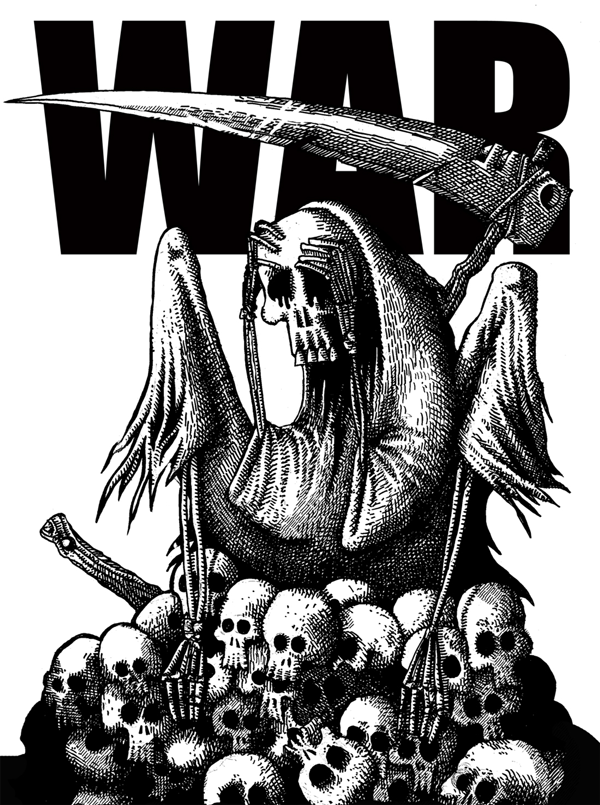
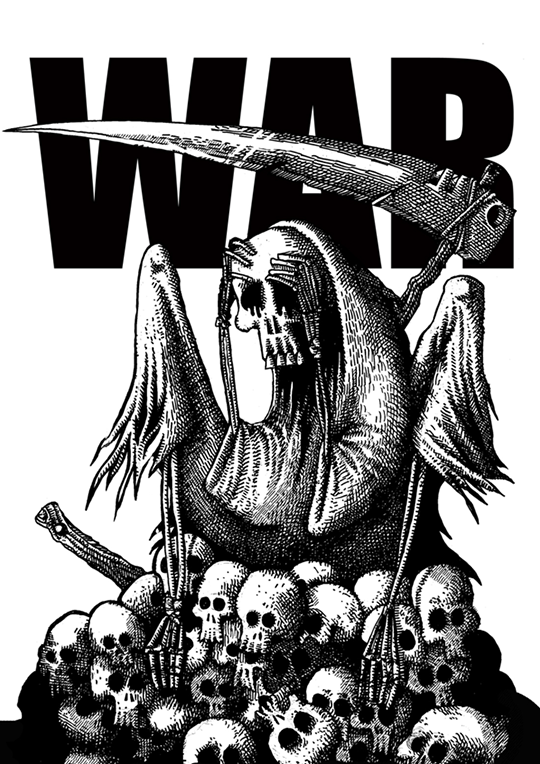
img gallery

diff --git a/index.html b/index.html
@@ -6,103 +6,150 @@
     <meta http-equiv="X-UA-Compatible" content="IE=edge">
     <meta name="viewport" content="width=device-width, initial-scale=1">
 
-    <title>Bootstrap Gallery</title>
+    <title>Graphisme - Illustrations</title>
 
     <link rel="stylesheet" href="https://maxcdn.bootstrapcdn.com/bootstrap/3.3.7/css/bootstrap.min.css">
     <link href="https://fonts.googleapis.com/css?family=Droid+Sans:400,700" rel="stylesheet">
     <link rel="stylesheet" href="https://cdnjs.cloudflare.com/ajax/libs/baguettebox.js/1.8.1/baguetteBox.min.css">
-    <link rel="stylesheet" href="thumbnail-gallery.css">
+    <link rel="stylesheet" href="style.css">
 
 </head>
 <body>
 
-<div class="container gallery-container">
+    <div class="container gallery-container">
 
-    <h1>Illustrations</h1>
+        <h1>Graphisme - Illustrations</h1>
 
-    <p class="page-description text-center">Thumbnails With Title And Description</p>
-    
-    <div class="tz-gallery">
+        <p class="page-description text-center"></p>
 
-        <div class="row">
+        <div class="tz-gallery">
 
-            <div class="col-sm-6 col-md-4">
-                <div class="thumbnail">
-                    <a class="lightbox" href="img/cat.png">
-                        <img src="img/cat.png" alt="cat">
-                    </a>
-                    <div class="caption">
-                        <h3>Strange cat</h3>
-                        <p>Outils: Dessin + Illustrator + photoshop</p>
+            <div class="row">
+
+                <div class="col-sm-6 col-md-4">
+                    <div class="thumbnail">
+                        <a class="lightbox" href="img/cat.png">
+                            <img src="img/cat.png" alt="cat">
+                        </a>
+                        <div class="caption">
+                            <h3>Strange Cat</h3>
+                            <p>Illustration pour <a href="http://www.monsieurpoulet.com/">Mr Poulet</a></p>
+                            <p>Outils: Dessin / Illustrator / Photoshop</p>
+                        </div>
                     </div>
                 </div>
-            </div>
-            <div class="col-sm-6 col-md-4">
-                <div class="thumbnail">
-                    <a class="lightbox" href="img/banquier.png">
-                        <img src="img/banquier.png" alt="L'échappée">
-                    </a>
-                    <div class="caption">
-                        <h3>L'échappée</h3>
-                        <p>Outils: Tablette graphique + photoshop</p>
+                <div class="col-sm-6 col-md-4">
+                    <div class="thumbnail">
+                        <a class="lightbox" href="img/banquier.png">
+                            <img src="img/banquier.png" alt="L'échappée">
+                        </a>
+                        <div class="caption">
+                            <h3>L'échappée</h3>
+                            <p>Projet perso</p>
+                            <p>Outils: Tablette graphique / Photoshop</p>
+                        </div>
                     </div>
                 </div>
-            </div>
-            <div class="col-sm-6 col-md-4">
-                <div class="thumbnail">
-                    <a class="lightbox" href="img/couverture.jpg">
-                        <img src="img/couverture.jpg" alt="costard">
-                    </a>
-                    <div class="caption">
-                        <h3>1 costard pour 2</h3>
-                        <p>Réalisation de la pochette du groupe de chanson francaise 1costard pour 2.
-                        Illustrations-photomontage   
-                        Outils: Dessin + Tablette graphique + suite Adobe</p>
+                <div class="col-sm-6 col-md-4">
+                    <div class="thumbnail">
+                        <a class="lightbox" href="img/war.png">
+                            <img src="img/war.png" alt="war">
+                        </a>
+                        <div class="caption">
+                            <h3>War</h3>
+                            <p>Dessin de presse</p>
+                            <p>Outils: Dessin / Photoshop</p>
+                        </div>
                     </div>
                 </div>
-            </div>
-            <div class="col-sm-6 col-md-4">
-                <div class="thumbnail">
-                    <a class="lightbox" href="img/sacrifice.jpg">
-                        <img src="img/sacrifice.jpg" alt="freeze">
-                    </a>
-                    <div class="caption">
-                        <h3>Froid</h3>
-                        <p>Outils: Dessin + Illustrator</p>
+                <div class="clearfix"></div>
+                
+                <div class="col-sm-6 col-md-4">
+                    <div class="thumbnail">
+                        <a class="lightbox" href="img/batidrive.png">
+                            <img src="img/batidrive.png" alt="Bricomarché">
+                        </a>
+                        <div class="caption">
+                            <h3>Bricomarché</h3>
+                            <p>Commande signalétique pour leur nouveau concept.</p>
+                            <p>Outils: Tablette graphique / Photoshop</p>
+                        </div>
                     </div>
                 </div>
-            </div>
-            <div class="col-sm-6 col-md-4">
-                <div class="thumbnail">
-                    <a class="lightbox" href="../images/rails.jpg">
-                        <img src="../images/rails.jpg" alt="Rails">
-                    </a>
-                    <div class="caption">
-                        <h3>Thumbnail label</h3>
-                        <p>Lorem ipsum dolor sit amet, consectetur adipisicing elit, sed do eiusmod tempor incididunt ut labore et dolore magna aliqua.</p>
+                <div class="col-sm-6 col-md-4">
+                    <div class="thumbnail">
+                        <a class="lightbox" href="img/peals.png">
+                            <img src="img/peals.png" alt="peals">
+                        </a>
+                        <div class="caption">
+                            <h3>Peal's</h3>
+                            <p>Charte graphique pour le <br>food-truck Peal's</p>
+                            <p>Logo, carte, stickage, évenementiel.</p>
+                        </div>
                     </div>
                 </div>
-            </div>
-            <div class="col-sm-6 col-md-4">
-                <div class="thumbnail">
-                    <a class="lightbox" href="../images/traffic.jpg">
-                        <img src="../images/traffic.jpg" alt="Traffic">
-                    </a>
-                    <div class="caption">
-                        <h3>Thumbnail label</h3>
-                        <p>Lorem ipsum dolor sit amet, consectetur adipisicing elit, sed do eiusmod tempor incididunt ut labore et dolore magna aliqua.</p>
+                <div class="col-sm-6 col-md-4">
+                    <div class="thumbnail">
+                        <a class="lightbox" href="img/monde.png">
+                            <img src="img/monde.png" alt="costard">
+                        </a>
+                        <div class="caption">
+                            <h3>Dessin de presse</h3>
+                            <p>Pour le Monde</p>
+                            <p>Outils: Dessin / Photoshop</p>
+                        </div>
                     </div>
                 </div>
+                <div class="clearfix"></div>
+                <div class="col-sm-6 col-md-4">
+                    <div class="thumbnail">
+                        <a class="lightbox" href="img/couverture.jpg">
+                            <img src="img/couverture.jpg" alt="costard">
+                        </a>
+                        <div class="caption">
+                            <h3>1 costard pour 2</h3>
+                            <p>Réalisation de la pochette du groupe francais <br> 1 costard pour 2.<br>
+                                Illustrations/Photomontage<br>   
+                            Outils: Dessin / Tablette graphique / Suite Adobe</p>
+                        </div>
+                    </div>
+                </div>
+
+                <div class="col-sm-6 col-md-4">
+                    <div class="thumbnail">
+                        <a class="lightbox" href="img/sacrifice.png">
+                            <img src="img/sacrifice.png" alt="freeze">
+                        </a>
+                        <div class="caption">
+                            <h3>Froid</h3>
+                            <p>Illustration pour <a href="http://www.monsieurpoulet.com/">Mr Poulet</a></p>
+                            <p>Outils: Dessin / Illustrator</p>
+                        </div>
+                    </div>
+                </div>
+
+                <div class="col-sm-6 col-md-4">
+                    <div class="thumbnail">
+                        <a class="lightbox" href="img/moustique.png">
+                            <img src="img/moustique.png" alt="Traffic">
+                        </a>
+                        <div class="caption">
+                            <h3>Dessin de presse</h3>
+                            <p>Outils: Dessin / Photoshop</p>
+                        </div>
+                    </div>
+                </div>
+
+
+
             </div>
         </div>
 
     </div>
 
-</div>
-
-<script src="https://cdnjs.cloudflare.com/ajax/libs/baguettebox.js/1.8.1/baguetteBox.min.js"></script>
-<script>
-    baguetteBox.run('.tz-gallery');
-</script>
+    <script src="https://cdnjs.cloudflare.com/ajax/libs/baguettebox.js/1.8.1/baguetteBox.min.js"></script>
+    <script>
+        baguetteBox.run('.tz-gallery');
+    </script>
 </body>
 </html>
